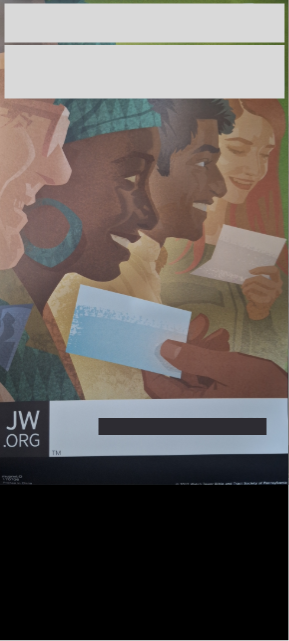
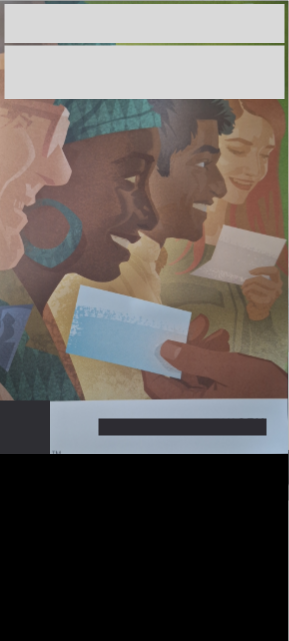
Added and updated covers

Changed region(s): [[0.0, 0.0, 1.0, 0.78], [0.0, 0.9984, 1.0, 1.0]]

diff --git a/src/main.js b/src/main.js
@@ -333,6 +333,74 @@ window.globals = {
 			name: "What has happened to respect?",
 			fileName: "whatHasHappenedToRespect.png",
 		},
+		11: {
+			name: "Does God care about you?",
+			fileName: "doesGodCareAboutYou.png",
+		},
+		12: {
+			name: "How to achieve real success?",
+			fileName: "howToAchieveRealSucces.png",
+		},
+		13: {
+			name: "No more sadness",
+			fileName: "noMoreSadness.png",
+		},
+		14: {
+			name: "Coping with rising prices",
+			fileName: "copingWithRisingPrices.png",
+		},
+		15: {
+			name: "A world in turmoil - How you can cope",
+			fileName: "worldInTurmoil.png",
+		},
+		16: {
+			name: "",
+			fileName: "peaceWhen.png",
+		},
+		17: {
+			name: "",
+			fileName: "rightAndWrong.png",
+		},
+		18: {
+			name: "",
+			fileName: "theSearchForTruth.png",
+		},
+		19: {
+			name: "",
+			fileName: "whatIsGodsKingdom.png",
+		},
+		20: {
+			name: "",
+			fileName: "whyPray.png",
+		},
+		21: {
+			name: "",
+			fileName: "breakingTheCycleOfHatred.png",
+		},
+		22: {
+			name: "",
+			fileName: "canOurPlanetSurvive.png",
+		},
+		23: {
+			name: "",
+			fileName: "getToKnowTheBible.png",
+		},
+		24: {
+			name: "",
+			fileName: "helpForThoseWhoGrieve.png",
+		},
+		25: {
+			name: "",
+			fileName: "shouldYouBelieveInACreator.png",
+		},
+		26: {
+			name: "",
+			fileName: "whoIsGod.png",
+		},
+		27: {
+			name: "",
+			fileName: "willWeEverFeelSafeAndSecure.png",
+		},
 	},
 };
 
@@ -492,4 +560,4 @@ function saveData() {
 }
 
 loadData();
-loadPage("home");
+loadPage("covers");

diff --git a/src/pages/covers.html b/src/pages/covers.html
@@ -3,7 +3,7 @@
         min-width: 300px;
         width: calc(100% - 10px);
         background: var(--color-content-background-primary);
-        max-height: 60vh;
+        max-height: 70vh;
         align-self: flex-start;
         overflow-y: scroll;
         border: 5px solid var(--color-button-background);
